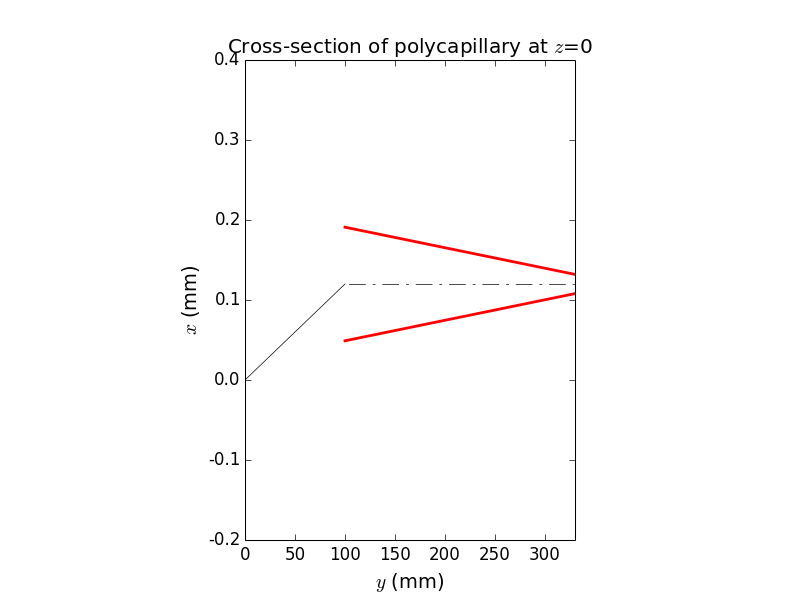
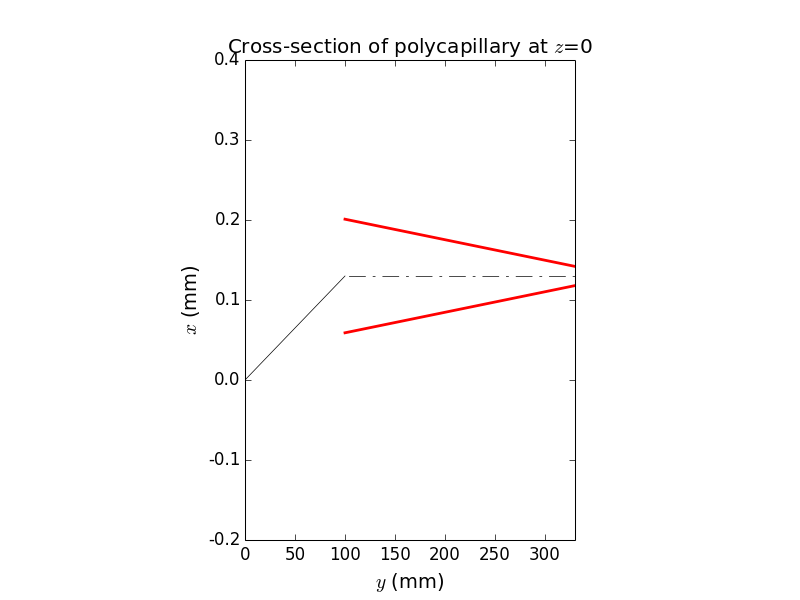
Conical, little higher

diff --git a/StraightCapillary.py b/StraightCapillary.py
@@ -47,7 +47,7 @@ class StraightCapillary(roe.OE):
         s0 = self.f - self.rSample * np.cos(self.entranceAlpha)
         self.a0 = -np.tan(self.entranceAlpha) / 2 / s0
         self.b0 = 0.5*self.rSample * np.sin(self.entranceAlpha) - self.a0 * s0**2
-        self.b0 = 0.12
+        self.b0 = 0.13
         self.s0 = s0
         self.ar = (self.r0out-self.r0in) / s0
         self.br = self.r0in
